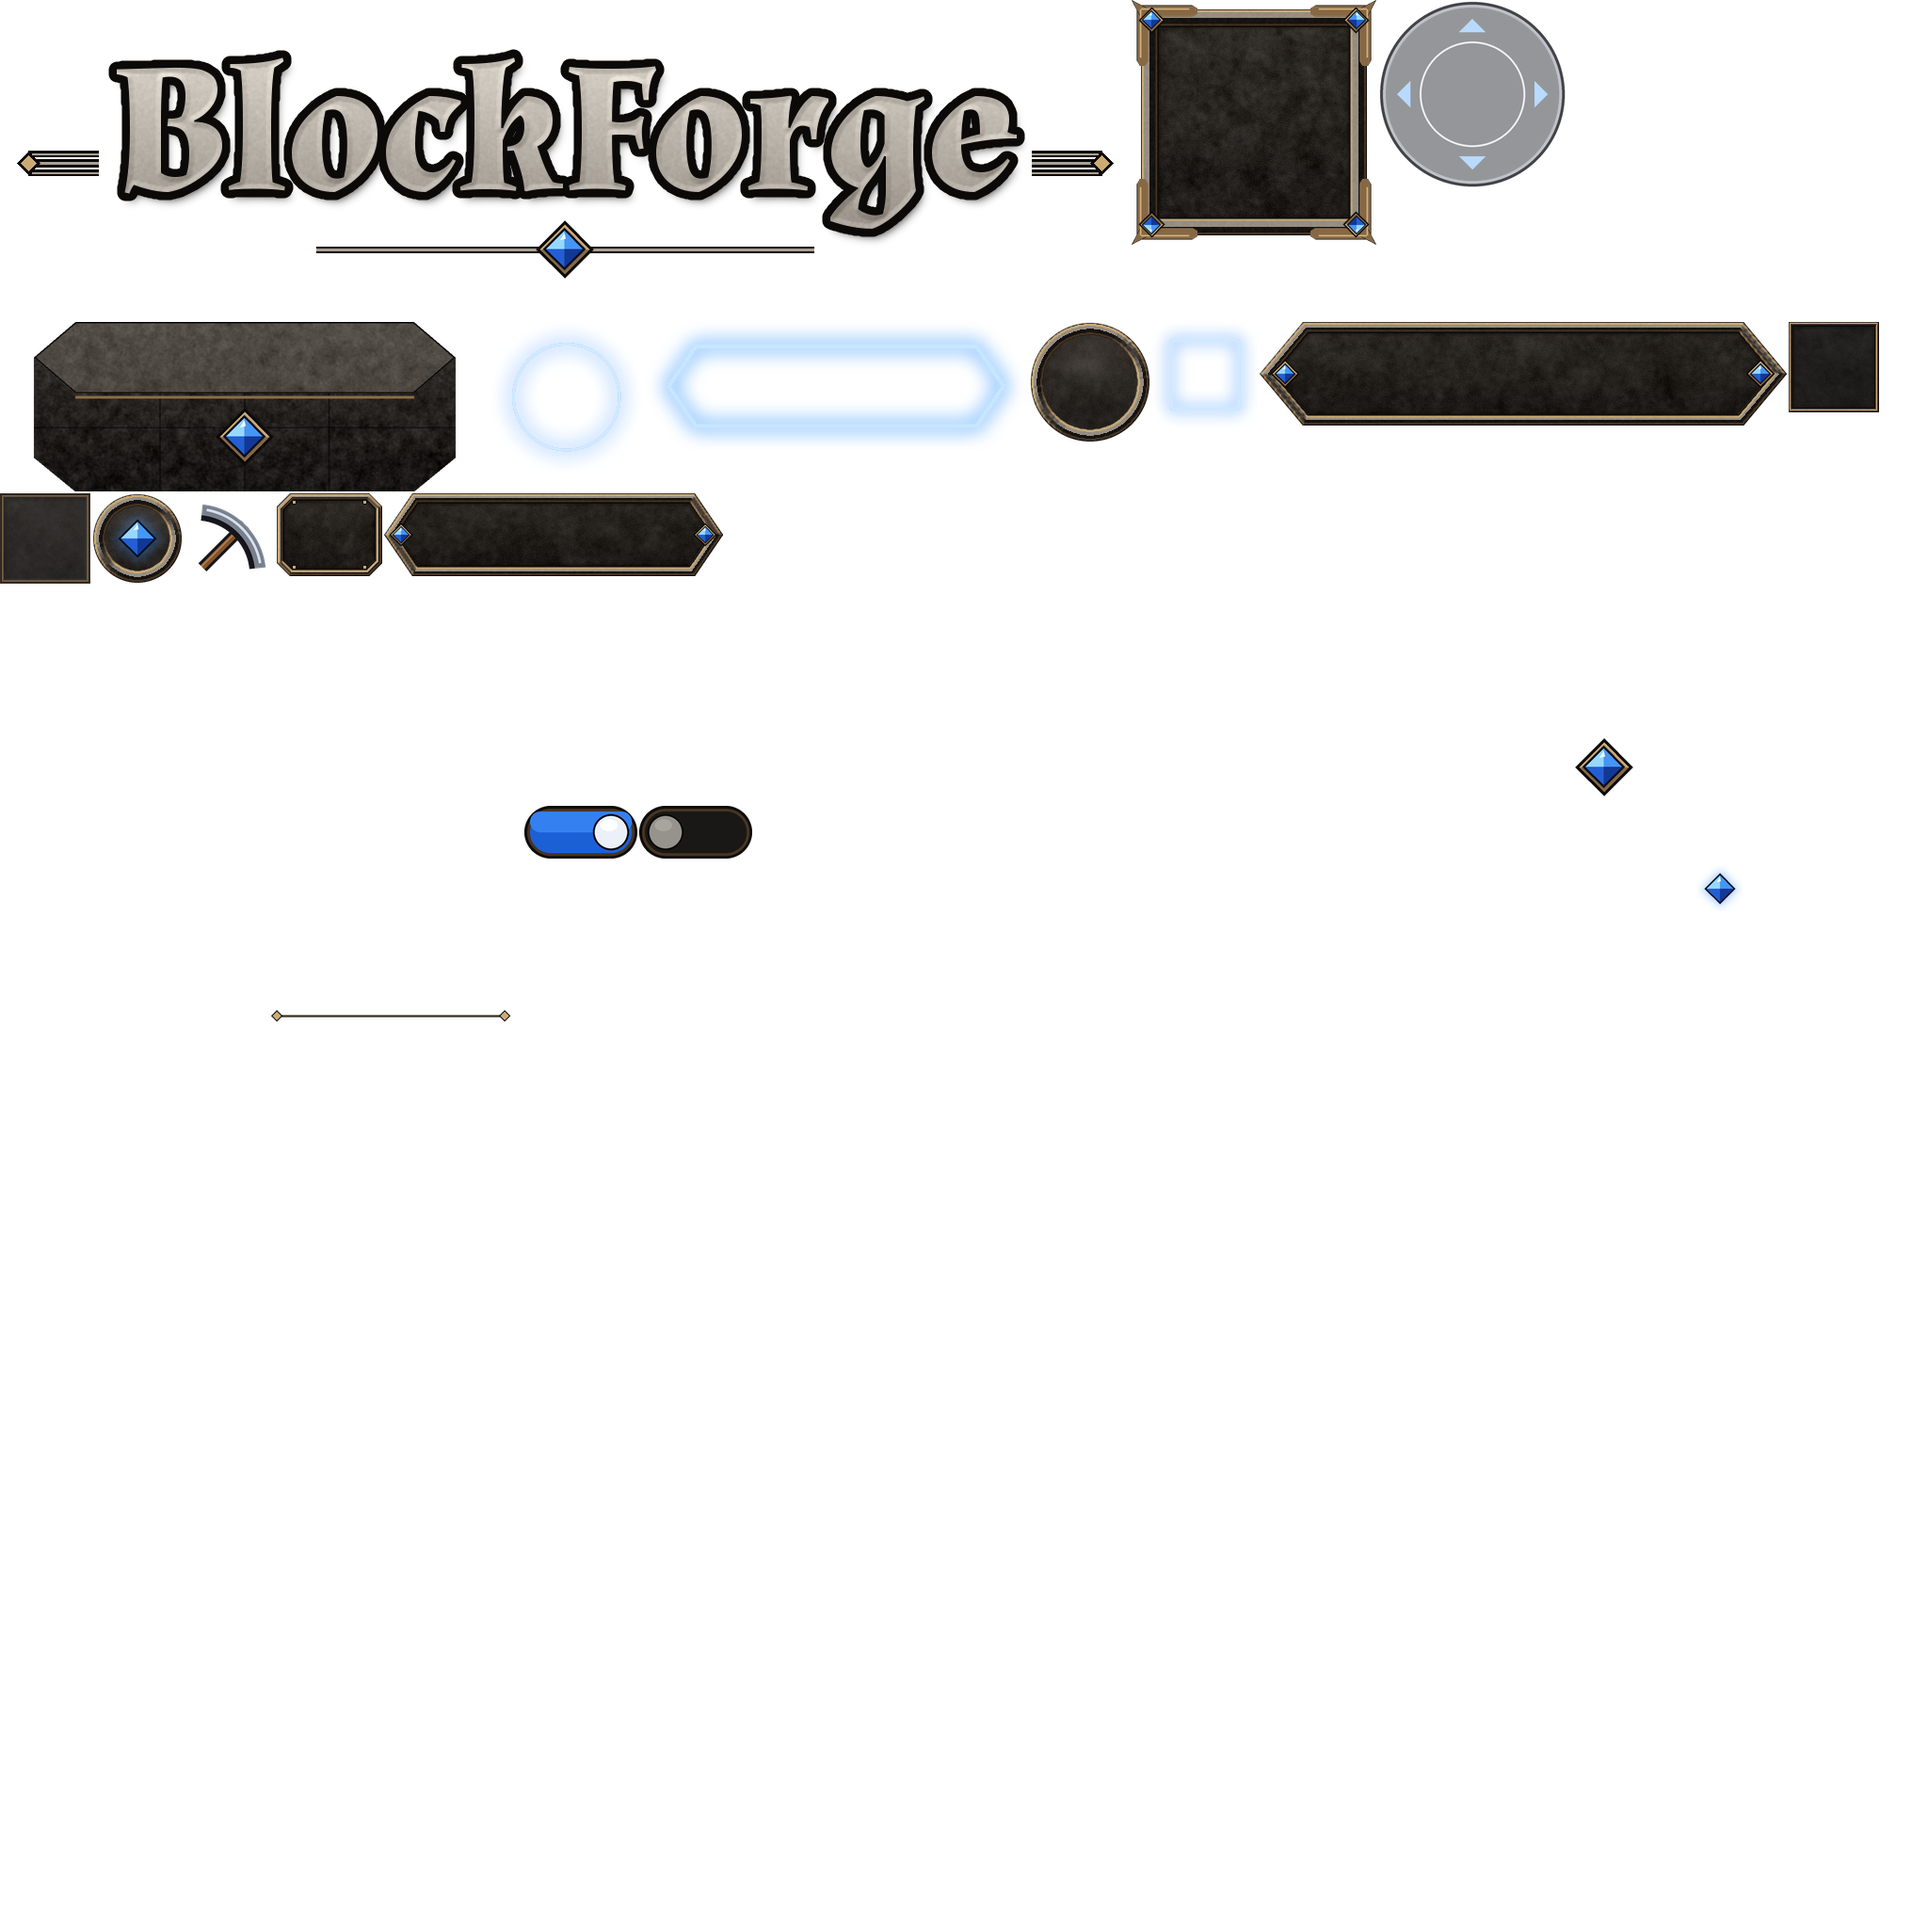
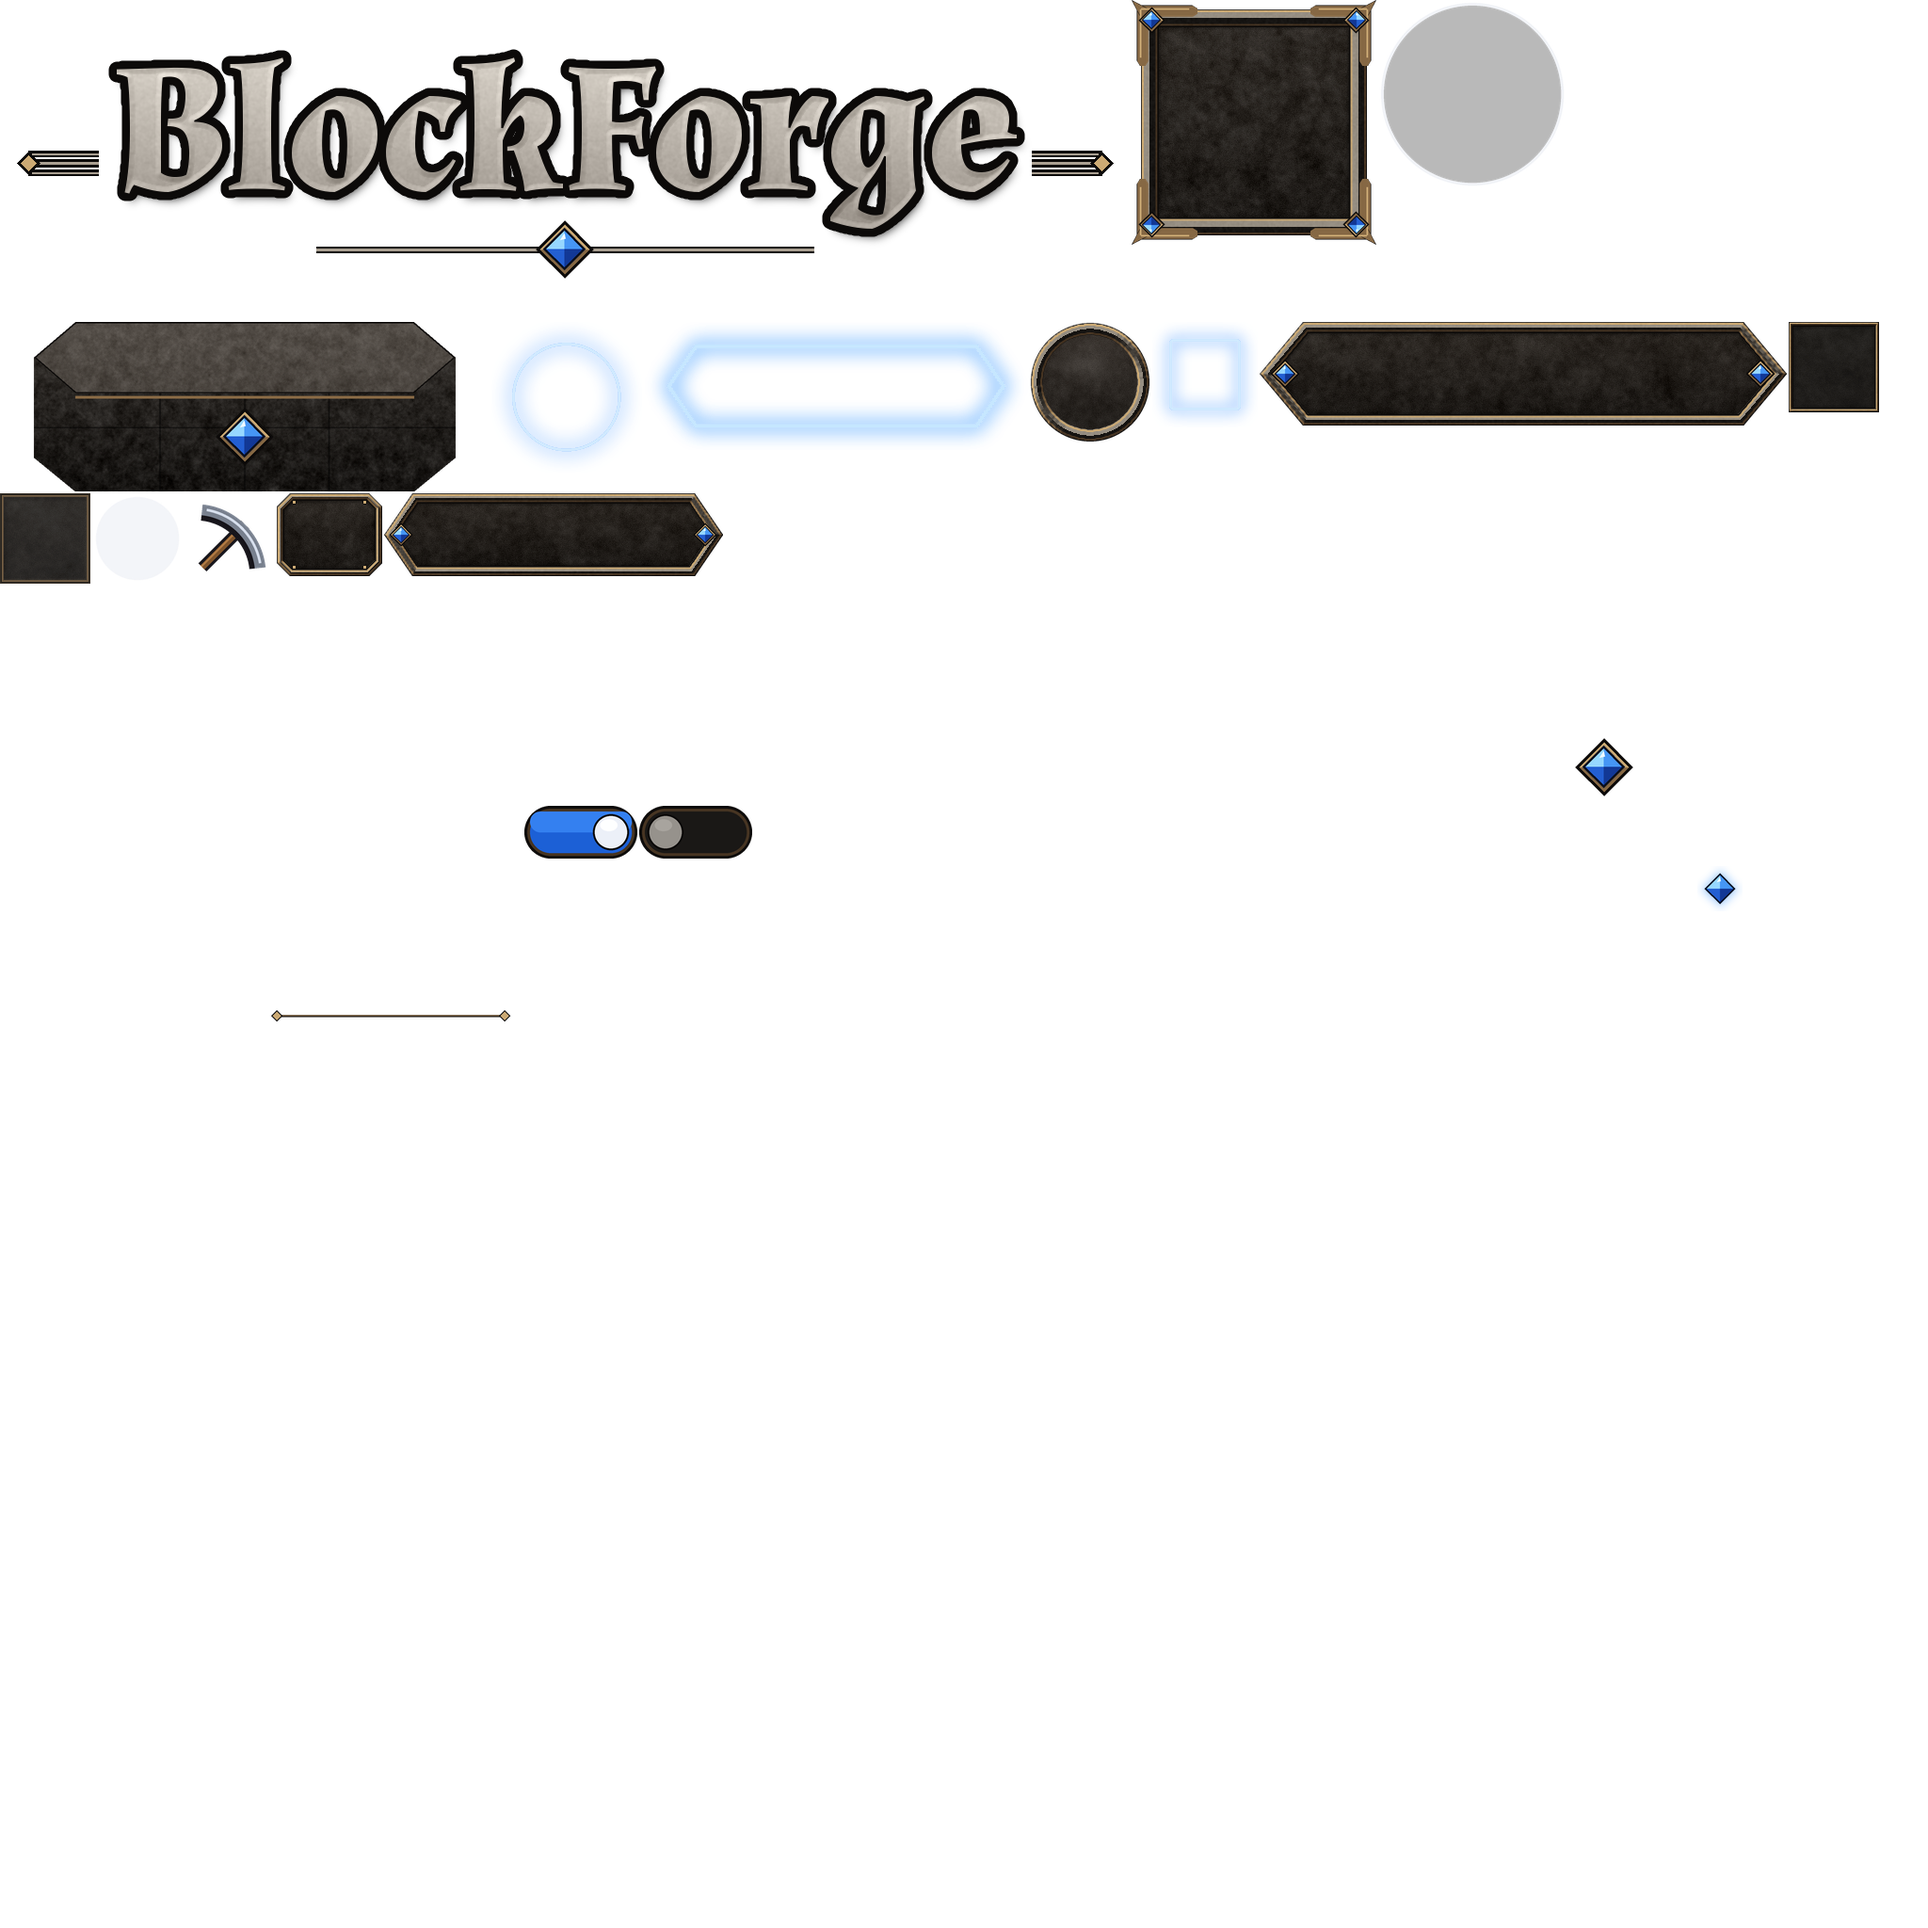
Simpler joystick that stays put once placed
The stick's ring still appears under the thumb when it lands, but no
longer follows it: the knob stops at the ring's edge. The ring is now a
plain thin light circle over a faint dark disc, the knob a plain light
disc (no chevrons, no gem).

Claude-Session: https://claude.ai/code/session_01LigXiaUg8QrpGsTqpt57FQ

Changed region(s): [[0.7188, 0.0, 0.8125, 0.0938], [0.0312, 0.25, 0.0938, 0.3125]]

diff --git a/app/src/game.rs b/app/src/game.rs
@@ -613,21 +613,13 @@ impl Game {
                 self.ui.acts_open = false;
             }
             TouchPhase::Moved => {
-                let r = self.stick_radius();
                 let look = LOOK_SENS * (0.25 + 0.15 * self.ui.settings.look_speed as f32);
                 if let Some(t) = self.touches.get_mut(&id) {
                     let dx = x - t.last.0;
                     let dy = y - t.last.1;
                     t.last = (x, y);
-                    if t.stick {
-                        // Past the ring's edge, the ring follows the thumb.
-                        let (ox, oy) = (x - t.base.0, y - t.base.1);
-                        let len = ox.hypot(oy);
-                        if len > r {
-                            let k = 1.0 - r / len;
-                            t.base = (t.base.0 + ox * k, t.base.1 + oy * k);
-                        }
-                    } else {
+                    // The stick's ring stays where the thumb first landed.
+                    if !t.stick {
                         self.cam.yaw -= dx * look;
                         self.cam.pitch = (self.cam.pitch - dy * look).clamp(-1.5, 1.5);
                     }
@@ -807,7 +799,7 @@ mod tests {
     }
 
     #[test]
-    fn the_stick_appears_under_the_thumb_and_follows_it() {
+    fn the_stick_appears_under_the_thumb_and_stays_put() {
         let reg = Arc::new(BlockRegistry::builtin());
         let mut ui = Ui::new();
         ui.screen = Screen::Playing;
@@ -826,12 +818,16 @@ mod tests {
         // Half way out: half speed, the ring stays.
         g.touch(1, TouchPhase::Moved, 500.0 + r * 0.5, 600.0);
         assert!((g.stick().0 - 0.5).abs() < 0.01);
-        // Past the edge: full speed, and the ring is pulled along.
+        // Past the edge: full speed; the ring stays put, the knob stops at its edge.
         g.touch(1, TouchPhase::Moved, 500.0 + r * 3.0, 600.0);
         g.update();
         let j = g.ui.joystick.unwrap();
         assert!((g.stick().0 - 1.0).abs() < 0.01);
-        assert!((j.base[0] - (500.0 + r * 2.0)).abs() < 0.5 && (j.knob[0] - (500.0 + r * 3.0)).abs() < 0.5, "{j:?}");
+        assert!(j.base == [500.0, 600.0] && (j.knob[0] - (500.0 + r)).abs() < 0.5, "{j:?}");
+        // Back inside: it follows the thumb again from the same spot.
+        g.touch(1, TouchPhase::Moved, 500.0, 600.0 - r * 0.5);
+        g.update();
+        assert!(g.ui.joystick.unwrap().base == [500.0, 600.0] && (g.stick().1 - 0.5).abs() < 0.01);
         // Let go: it fades, then is gone; the character stops.
         g.touch(1, TouchPhase::Ended, 500.0 + r * 3.0, 600.0);
         g.update();

diff --git a/tools/make_ui_atlas.py b/tools/make_ui_atlas.py
@@ -198,22 +198,22 @@ def glow_frame(w, h, inset, radius, color=(70, 150, 255)):
 
 
 def joystick_base(size):
-    """The stick's ring: a dark see-through disc in a thin metal ring, with four chevrons."""
+    """The stick's ring: a faint dark disc inside one thin light ring."""
     ss = 4
     S = size * ss
     m = Image.new("RGBA", (S, S), (0, 0, 0, 0))
     d = ImageDraw.Draw(m)
-    d.ellipse([2 * ss, 2 * ss, S - 2 * ss, S - 2 * ss], fill=(10, 12, 18, 110), outline=(20, 20, 24, 200), width=4 * ss)
-    d.ellipse([5 * ss, 5 * ss, S - 5 * ss, S - 5 * ss], outline=(176, 178, 190, 210), width=3 * ss)
-    d.ellipse([S * 0.22, S * 0.22, S * 0.78, S * 0.78], outline=(176, 178, 190, 60), width=2 * ss)
-    c = S / 2
-    for ang in (0, 90, 180, 270):
-        a = np.radians(ang)
-        r1, r2, w = S * 0.40, S * 0.33, S * 0.07
-        tip = (c + np.cos(a) * r1, c + np.sin(a) * r1)
-        b1 = (c + np.cos(a) * r2 - np.sin(a) * w, c + np.sin(a) * r2 + np.cos(a) * w)
-        b2 = (c + np.cos(a) * r2 + np.sin(a) * w, c + np.sin(a) * r2 - np.cos(a) * w)
-        d.polygon([tip, b1, b2], fill=(150, 200, 255, 170))
+    d.ellipse([3 * ss, 3 * ss, S - 3 * ss, S - 3 * ss], fill=(0, 0, 0, 70), outline=(235, 238, 245, 170), width=3 * ss)
+    return m.resize((size, size), Image.LANCZOS)
+
+
+def joystick_knob(size):
+    """The stick's thumb: a plain light disc with a soft edge."""
+    ss = 4
+    S = size * ss
+    m = Image.new("RGBA", (S, S), (0, 0, 0, 0))
+    d = ImageDraw.Draw(m)
+    d.ellipse([2 * ss, 2 * ss, S - 2 * ss, S - 2 * ss], fill=(235, 238, 245, 150), outline=(255, 255, 255, 210), width=2 * ss)
     return m.resize((size, size), Image.LANCZOS)
 
 
@@ -283,10 +283,7 @@ def main():
     add("round", O.round_button(128), [0, 0, 0, 0])
     add("glow_round", glow_ring(160), [0, 0, 0, 0])
     add("joy_base", joystick_base(200), [0, 0, 0, 0])
-    knob = O.round_button(96)
-    g = O.gem(60)
-    knob.alpha_composite(g, ((96 - 60) // 2, (96 - 60) // 2))
-    add("joy_knob", knob, [0, 0, 0, 0])
+    add("joy_knob", joystick_knob(96), [0, 0, 0, 0])
     add("pickaxe", pickaxe(), [0, 0, 0, 0])
     # The title screen's logo and the pedestal its character stands on.
     add("logo", O.logo(LOGO), [0, 0, 0, 0])

diff --git a/README.md b/README.md
@@ -194,9 +194,10 @@ and quads drawn. The HUD and menus are drawn by a small immediate-mode layer (`u
 ### Touch controls (`app/src/ui/controls.rs`, `app/src/game.rs`, `app/src/icons.rs`)
 
 * **Stick:** a touch on the left 45% of the screen (not on a button) puts the stick's ring
-  under the thumb. It walks, jogs or sprints by how far it is pushed (or flies where you look);
-  past the ring's edge the ring follows the thumb. It fades out a quarter second after the
-  thumb lifts, and is not drawn at all otherwise.
+  under the thumb, and there it stays until the thumb lifts: a plain thin ring with a light
+  knob that follows the thumb out to the ring's edge. How far it is pushed walks, jogs or
+  sprints (or flies where you look). It fades out a quarter second after the thumb lifts, and is
+  not drawn at all otherwise.
 * **Look:** drag anywhere else.
 * **Attack** (round, pickaxe): a tap is a punch, which breaks the block under the crosshair.
   Held past 0.3 s it becomes a heavy attack: the character chops, and each chop breaks a block
